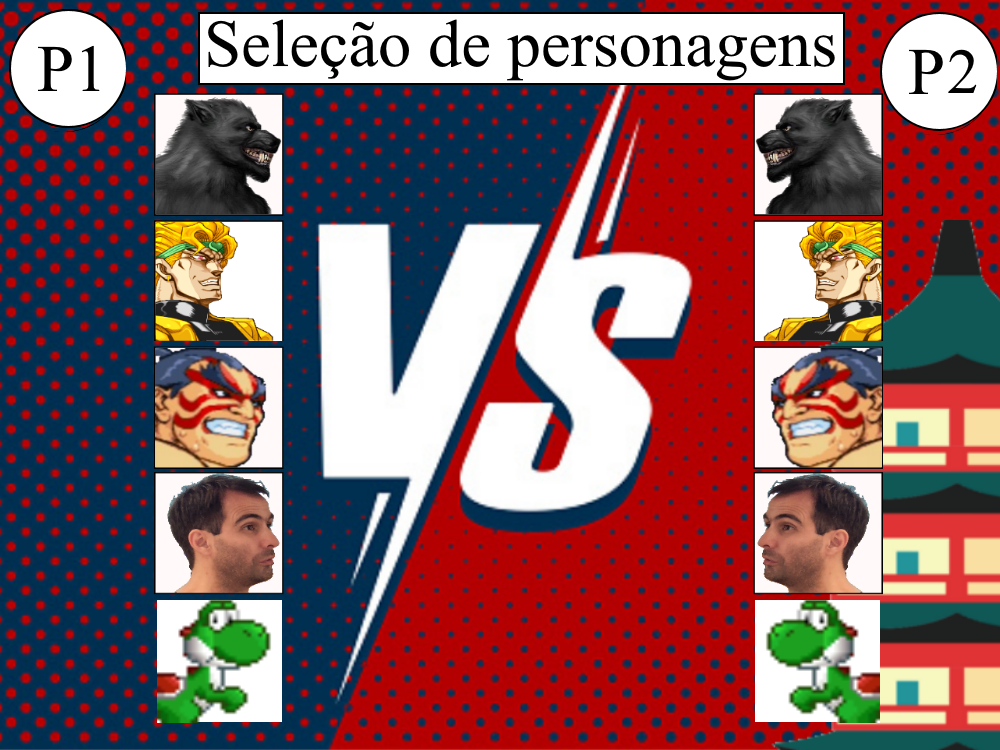
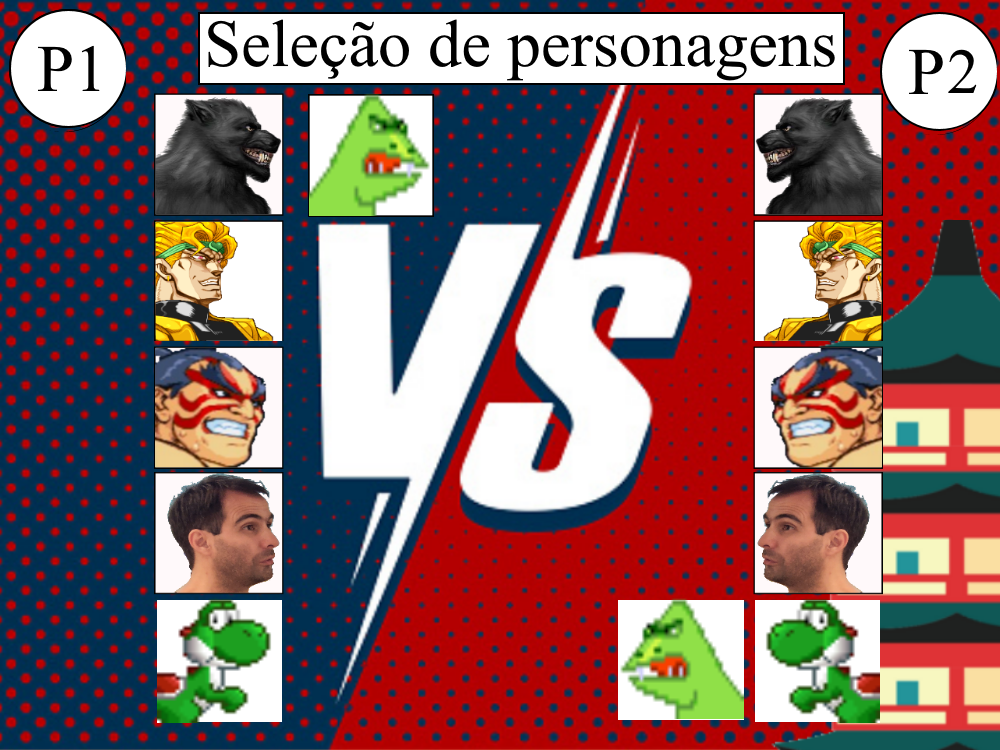
Dino aparece no menu de seleção de persoonagem

Changed region(s): [[0.62, 0.7973, 0.744, 0.9813], [0.31, 0.1227, 0.434, 0.3067]]

diff --git a/character_selection.py b/character_selection.py
@@ -60,9 +60,14 @@ def character_selection(screen):
                 x1=[[86,388],[86,459],[121,422]]
             if event.pos[0]>=124 and event.pos[0]<=226 and event.pos[1]>=480 and event.pos[1]<=578:
                 print("P1 escolheu o Yoshi")
-                p1c=7
+                p1c=5
                 player1_selecionou=True
                 x1=[[86,481],[86,554],[121,522]]
+            if event.pos[0]>=250 and event.pos[0]<=343 and event.pos[1]>=79 and event.pos[1]<=168:
+                print("P1 escolheu o Dino")
+                p1c=7
+                player1_selecionou=True
+                x1=[[348,124],[376,94],[376,151]]
             if event.pos[0]>=603 and event.pos[0]<=706 and event.pos[1]>=74 and event.pos[1]<=172:
                 print("P2 escolheu o lobisomen")
                 p2c=2
@@ -88,6 +93,11 @@ def character_selection(screen):
                 p2c=5
                 player2_selecionou=True
                 x2=[[744,498],[744,551],[710,524]]
+            if event.pos[0]>=497 and event.pos[0]<=592 and event.pos[1]>=479 and event.pos[1]<=566:
+                print("P2 escolheu o Dino")
+                p2c=7
+                player2_selecionou=True
+                x2=[[495,528],[444,493],[444,562]]
         elif event.type == pygame.MOUSEBUTTONDOWN and event.button == RIGHT:
             print ("(%d, %d)" % event.pos)
         elif event.type == pygame.MOUSEBUTTONDOWN and event.button == RIGHT:
